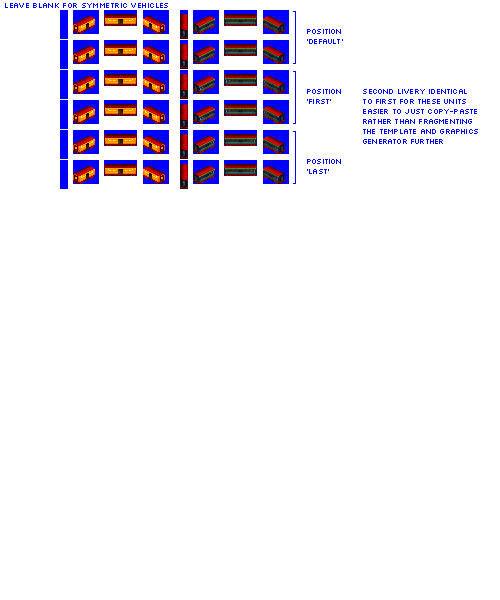
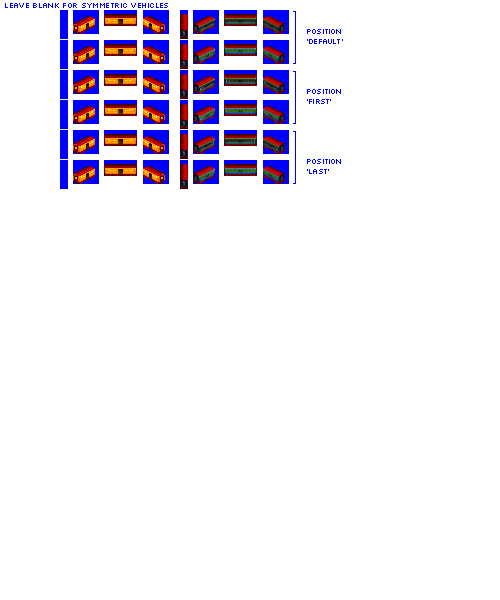
Change: additional livery for Blaze HST

diff --git a/src/rosters/pony.py b/src/rosters/pony.py
@@ -297,11 +297,17 @@ def main():
                     ("COLOUR_ORANGE", "COLOUR_WHITE"),
                 ],
             },
-            "CABBAGE_1": {
+            "BLUE_GREY": {
                 "remap_to_cc": None,
                 "docs_image_input_cc": [
                     ("COLOUR_RED", "COLOUR_WHITE"),
-                    ("COLOUR_GREY", "COLOUR_YELLOW"),
+                    ("COLOUR_DARK_BLUE", "COLOUR_WHITE"),
+                ],
+            },
+            "CABBAGE_1": {
+                "remap_to_cc": None,
+                "docs_image_input_cc": [
+                    ("COLOUR_RED", "COLOUR_LIGHT_BLUE"),
                 ],
             },
             "CABBAGE_2": {

diff --git a/src/vehicles/hst_mail_cars.py b/src/vehicles/hst_mail_cars.py
@@ -10,7 +10,7 @@ def main():
         subtype="U",
         intro_year_offset=0,  # match to Firebird
         cab_id="firebird",
-        sprites_complete=True,
+        sprites_complete=False,
     )
 
     consist.add_unit(type=ExpressMailCar, chassis="4_axle_solid_express_32px")
@@ -35,7 +35,7 @@ def main():
         intro_year_offset=-10,  # match to Scorcher HST
         cab_id="scorcher",
         lgv_capable=True,  # for lolz
-        sprites_complete=True,
+        sprites_complete=False,
     )
 
     consist.add_unit(type=ExpressMailCar, chassis="4_axle_solid_express_32px")

diff --git a/src/vehicles/hst_passenger_cars.py b/src/vehicles/hst_passenger_cars.py
@@ -10,7 +10,7 @@ def main():
         subtype="U",
         intro_year_offset=0,  # match to Firebird
         cab_id="firebird",
-        sprites_complete=True,
+        sprites_complete=False,
     )
 
     consist.add_unit(type=PaxCar, chassis="4_axle_solid_express_32px")
@@ -35,7 +35,7 @@ def main():
         intro_year_offset=-10,  # match to Scorcher HST
         cab_id="scorcher",
         lgv_capable=True,  # for lolz
-        sprites_complete=True,
+        sprites_complete=False,
     )
 
     consist.add_unit(type=PaxCar, chassis="4_axle_solid_express_32px")

diff --git a/src/vehicles/blaze.py b/src/vehicles/blaze.py
@@ -14,7 +14,8 @@ def main(roster_id):
         },
         intro_year_offset=-10,  # let's be a little bit earlier for this one - keep coaches matched
         gen=5,
-        sprites_complete=True,
+        additional_liveries=["BLUE_GREY"],
+        sprites_complete=False,
     )
 
     consist.add_unit(

diff --git a/src/vehicles/scorcher.py b/src/vehicles/scorcher.py
@@ -15,7 +15,7 @@ def main(roster_id):
         intro_year_offset=-10,  # let's be a little bit earlier for this one - keep match to HST coaches
         gen=6,
         lgv_capable=True,  # for lolz
-        sprites_complete=True,
+        sprites_complete=False,
     )
 
     consist.add_unit(

diff --git a/src/vehicles/firebird.py b/src/vehicles/firebird.py
@@ -13,7 +13,7 @@ def main(roster_id):
             "DIESEL": 3300,  # it's the Deltic that never was!  It's OP, but eh, it's just cartoon trains.
         },
         gen=4,
-        sprites_complete=True,
+        sprites_complete=False,
     )
 
     consist.add_unit(
